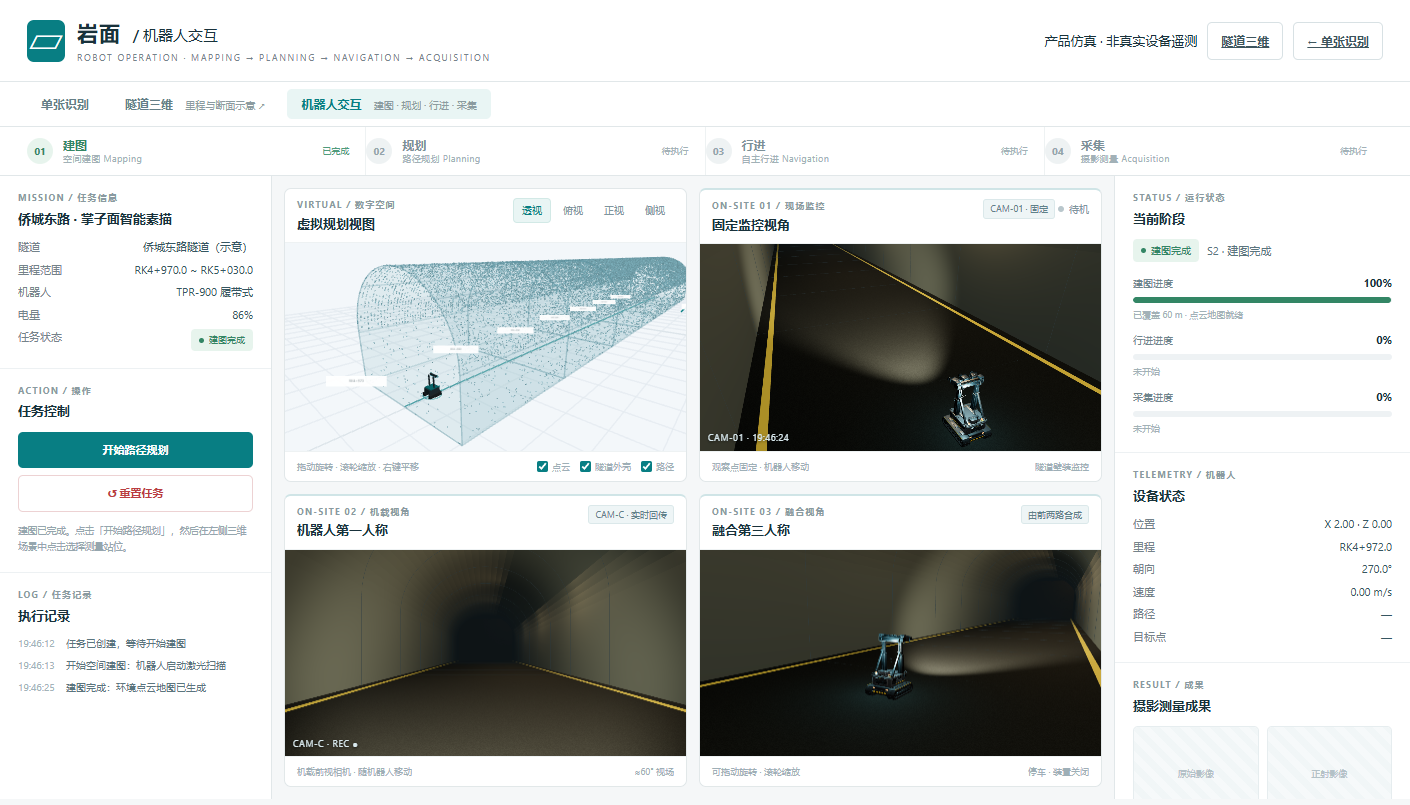
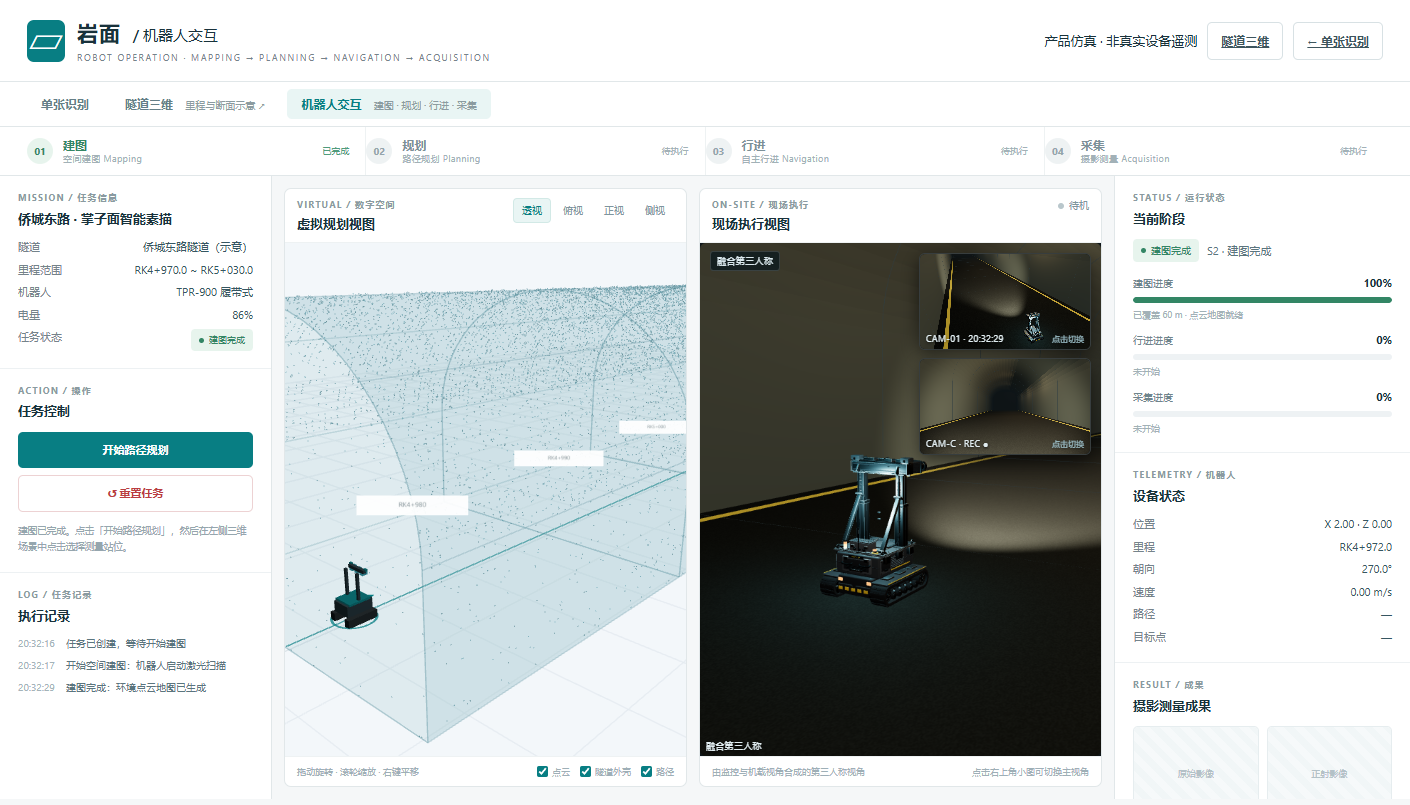
feat: restore two-panel layout with fused main view and click-to-swap picture-in-picture feeds

Changed region(s): [[0.1872, 0.2484, 0.7801, 0.9627], [0.6865, 0.2484, 0.7801, 0.3106], [0.6865, 0.9317, 0.7801, 0.9627]]

diff --git a/frontend/robot.js b/frontend/robot.js
@@ -211,12 +211,6 @@ function renderStatus() {
   else if (mission.paused) { realState.textContent = "已暂停"; live.classList.add("warn"); }
   else if (mission.state === "S11") { realState.textContent = "任务完成"; live.classList.add("on"); }
   else { realState.textContent = "待机"; }
-
-  $("real-foot").textContent = mission.state === "S8"
-    ? "停车 · 三相机采集中"
-    : mission.state === "S6" ? "行进中 · 履带驱动"
-    : mission.state === "S7" || mission.state === "S9" || mission.state === "S10" || mission.state === "S11" ? "停车 · 装置待机"
-    : "停车 · 装置关闭";
 }
 
 function renderLog() {
@@ -497,6 +491,65 @@ function bind() {
   window.addEventListener("resize", () => { virtualView?.resize(); realView?.resize(); });
 }
 
+// ---------------------------------------------------------------- 现场三路视角
+// 主画面默认是融合第三人称；另外两路作为右上角小图，点击即与主画面交换。
+const FEED_META = {
+  fused: { label: "融合第三人称", foot: "由监控与机载视角合成的第三人称视角" },
+  monitor: { label: "固定监控 CAM-01", foot: "观察点固定 · 机器人移动" },
+  fpv: { label: "机器人第一人称 CAM-C", foot: "机载前视相机 · 随机器人移动" },
+};
+const FEED_ORDER = ["fused", "monitor", "fpv"];
+const feedCards = {};
+let activeFeed = "fused";
+
+function makeFeedCard(key, tagText, tagId) {
+  const card = document.createElement("div");
+  card.className = "rb-feed-card";
+  card.dataset.feed = key;
+  card.title = `${FEED_META[key].label} · 点击切换主视角`;
+  const tag = document.createElement("span");
+  tag.className = "rb-feed-tag";
+  if (tagId) tag.id = tagId;
+  tag.textContent = tagText;
+  const hint = document.createElement("span");
+  hint.className = "rb-feed-hint";
+  card.append(tag, hint);
+  card.addEventListener("click", () => setActiveFeed(key));
+  return card;
+}
+
+function setActiveFeed(key) {
+  if (!key || key === activeFeed || !feedCards[key]) return;
+  activeFeed = key;
+  layoutFeeds();
+  toast(`主画面已切换到${FEED_META[key].label}`);
+}
+
+function layoutFeeds() {
+  const main = $("site-main");
+  const pip = $("site-pip");
+  if (!main || !pip) return;
+  for (const key of FEED_ORDER) {
+    const card = feedCards[key];
+    if (!card) continue;
+    const isMain = key === activeFeed;
+    card.classList.toggle("is-main", isMain);
+    card.classList.toggle("is-pip", !isMain);
+    const hint = card.querySelector(".rb-feed-hint");
+    if (hint) hint.textContent = isMain ? "" : "点击切换";
+    (isMain ? main : pip).append(card);
+  }
+  const label = $("site-label");
+  if (label) label.textContent = FEED_META[activeFeed].label;
+  const foot = $("real-foot");
+  if (foot) foot.textContent = FEED_META[activeFeed].foot;
+  if (realView) {
+    realView.activeKey = activeFeed;
+    realView.controls.enabled = activeFeed === "fused";
+    requestAnimationFrame(() => realView.resize());
+  }
+}
+
 // ---------------------------------------------------------------- 初始化
 async function boot() {
   mission.subscribe((type, payload) => {
@@ -566,11 +619,11 @@ async function boot() {
   }
 
   try {
-    realView = new RealView({
-      monitor: $("view-monitor"),
-      fpv: $("view-fpv"),
-      fused: $("view-fused"),
-    });
+    feedCards.fused = makeFeedCard("fused", "融合第三人称");
+    feedCards.monitor = makeFeedCard("monitor", "CAM-01 · --:--:--", "osd-monitor");
+    feedCards.fpv = makeFeedCard("fpv", "CAM-C · REC ●");
+    realView = new RealView(feedCards);
+    layoutFeeds();
     await realView.loadRobot();
     realView.setStatus("idle");
   } catch (error) {

diff --git a/frontend/robot.html b/frontend/robot.html
@@ -108,51 +108,24 @@
           </footer>
         </article>
 
-        <article class="rb-view rb-view-site" id="view-card-monitor">
+        <article class="rb-view" id="view-card-site">
           <header class="rb-view-head">
             <div>
-              <div class="panel-eyebrow">ON-SITE 01 / 现场监控</div>
-              <h2>固定监控视角</h2>
+              <div class="panel-eyebrow">ON-SITE / 现场执行</div>
+              <h2>现场执行视图</h2>
             </div>
             <div class="rb-view-tools">
-              <span class="rb-badge">CAM-01 · 固定</span>
               <span class="rb-live"><i></i><span id="real-state">待机</span></span>
             </div>
           </header>
-          <div class="rb-canvas rb-canvas-real" id="view-monitor" data-testid="monitor-viewport"><span class="rb-osd" id="osd-monitor">CAM-01 · --:--:--</span></div>
+          <div class="rb-canvas rb-canvas-real rb-site" id="site" data-testid="site-viewport">
+            <div class="rb-site-main" id="site-main"></div>
+            <div class="rb-site-pip" id="site-pip" aria-label="其他视角"></div>
+            <span class="rb-site-label" id="site-label">融合第三人称</span>
+          </div>
           <footer class="rb-view-foot">
-            <span>观察点固定 · 机器人移动</span>
-            <span>隧道壁装监控</span>
-          </footer>
-        </article>
-
-        <article class="rb-view rb-view-site" id="view-card-fpv">
-          <header class="rb-view-head">
-            <div>
-              <div class="panel-eyebrow">ON-SITE 02 / 机载视角</div>
-              <h2>机器人第一人称</h2>
-            </div>
-            <div class="rb-view-tools"><span class="rb-badge">CAM-C · 实时回传</span></div>
-          </header>
-          <div class="rb-canvas rb-canvas-real" id="view-fpv" data-testid="fpv-viewport"><span class="rb-osd" id="osd-fpv">CAM-C · REC ●</span></div>
-          <footer class="rb-view-foot">
-            <span>机载前视相机 · 随机器人移动</span>
-            <span>≈60° 视场</span>
-          </footer>
-        </article>
-
-        <article class="rb-view rb-view-site" id="view-card-fused">
-          <header class="rb-view-head">
-            <div>
-              <div class="panel-eyebrow">ON-SITE 03 / 融合视角</div>
-              <h2>融合第三人称</h2>
-            </div>
-            <div class="rb-view-tools"><span class="rb-badge">由前两路合成</span></div>
-          </header>
-          <div class="rb-canvas rb-canvas-real" id="view-fused" data-testid="fused-viewport"></div>
-          <footer class="rb-view-foot">
-            <span>可拖动旋转 · 滚轮缩放</span>
-            <span id="real-foot">停车 · 装置关闭</span>
+            <span id="real-foot">由监控与机载视角合成的第三人称视角</span>
+            <span>点击右上角小图可切换主视角</span>
           </footer>
         </article>
       </div>

diff --git a/frontend/robot.css b/frontend/robot.css
@@ -70,7 +70,7 @@
 
 /* ---------- 中央双场景 ---------- */
 .rb-center { padding: 12px; display: flex; flex-direction: column; gap: 10px; min-width: 0; min-height: 0; overflow: hidden; }
-.rb-views { display: grid; grid-template-columns: minmax(0, 1fr) minmax(0, 1fr); grid-template-rows: minmax(0, 1fr) minmax(0, 1fr); gap: 12px; flex: 1; min-height: 0; }
+.rb-views { display: grid; grid-template-columns: minmax(0, 1fr) minmax(0, 1fr); grid-template-rows: minmax(0, 1fr); gap: 12px; flex: 1; min-height: 0; }
 .rb-view {
   display: flex; flex-direction: column; min-width: 0; min-height: 0;
   border: 1px solid var(--line); border-radius: 7px; background: var(--paper); overflow: hidden;
@@ -91,11 +91,36 @@
 .rb-canvas-real { background: #10171a; }
 .rb-canvas canvas { display: block; }
 .rb-feed { display: block; width: 100%; height: 100%; touch-action: none; }
-.rb-view-site { border-top: 2px solid #cfe4e6; }
-.rb-osd {
-  position: absolute; left: 8px; bottom: 6px; z-index: 2;
-  font-size: 9px; letter-spacing: .5px; color: #d9e9ee;
-  text-shadow: 0 1px 3px #000a; font-variant-numeric: tabular-nums; pointer-events: none;
+
+/* ---------- 现场执行：主画面 + 右上角画中画 ---------- */
+.rb-site { position: relative; }
+.rb-site-main { position: absolute; inset: 0; }
+.rb-site-pip {
+  position: absolute; top: 10px; right: 10px; z-index: 3;
+  display: flex; flex-direction: column; gap: 8px;
+}
+.rb-feed-card { position: relative; overflow: hidden; border-radius: 6px; background: #0b1214; }
+.rb-feed-card.is-main { width: 100%; height: 100%; }
+.rb-feed-card.is-pip {
+  width: 172px; height: 97px; border: 1px solid #ffffff2e; cursor: pointer;
+  box-shadow: 0 6px 18px #00000099; transition: border-color .12s, transform .12s;
+}
+.rb-feed-card.is-pip:hover { border-color: #8fd3dd; transform: translateY(-1px); }
+.rb-feed-card canvas { display: block; width: 100%; height: 100%; }
+.rb-feed-tag {
+  position: absolute; left: 6px; bottom: 4px; z-index: 2;
+  font-size: 9px; letter-spacing: .3px; color: #e2eef2;
+  text-shadow: 0 1px 3px #000c; font-variant-numeric: tabular-nums; pointer-events: none;
+}
+.rb-feed-hint {
+  position: absolute; right: 6px; bottom: 4px; z-index: 2;
+  font-size: 8px; color: #9fc3cc; text-shadow: 0 1px 3px #000c; pointer-events: none;
+}
+.rb-site-label {
+  position: absolute; left: 10px; top: 8px; z-index: 3;
+  font-size: 9px; letter-spacing: .4px; color: #dbe9ee;
+  background: #0d1a1ecc; border: 1px solid #ffffff26; border-radius: 3px; padding: 2px 6px;
+  pointer-events: none;
 }
 .rb-badge {
   font-size: 9px; color: #5f818a; background: #eef5f6; border: 1px solid #dbe8ea;

diff --git a/frontend/robot_scene.js b/frontend/robot_scene.js
@@ -806,23 +806,49 @@ export class RealView {
     this.drawFeed("fused", this.camera);
   }
 
-  /** 渲染一次到离屏画布，再按 cover 规则拷贝到目标 2D 画布。 */
+  /** 渲染一次并拷贝到目标 2D 画布。
+   *  主画面与画中画比例不同：在共享缓冲里按目标比例取子视口，避免拉伸或裁掉视野。 */
   drawFeed(key, camera) {
     const target = this.targets[key];
     if (!target || !camera) return;
     const { canvas, context } = target;
-    const width = canvas.width, height = canvas.height;
-    if (!width || !height) return;
-    this.renderer.render(this.scene, camera);
+    const cw = canvas.width, ch = canvas.height;
+    if (!cw || !ch) return;
+
     const source = this.renderer.domElement;
-    const sw = source.width, sh = source.height;
-    const scale = Math.max(width / sw, height / sh);
-    const cw = width / scale, ch = height / scale;
-    context.drawImage(source, (sw - cw) / 2, (sh - ch) / 2, cw, ch, 0, 0, width, height);
+    const bw = source.width, bh = source.height;
+    const targetAspect = cw / ch;
+    const bufferAspect = bw / bh;
+
+    let vw = bw, vh = bh;
+    if (Math.abs(targetAspect - bufferAspect) > 0.02) {
+      if (targetAspect < bufferAspect) { vw = Math.round(bh * targetAspect); vh = bh; }
+      else { vw = bw; vh = Math.round(bw / targetAspect); }
+      vw = Math.min(vw, bw);
+      vh = Math.min(vh, bh);
+    }
+
+    camera.aspect = targetAspect;
+    camera.updateProjectionMatrix();
+
+    const scissored = vw !== bw || vh !== bh;
+    this.renderer.setViewport(0, 0, vw, vh);
+    this.renderer.setScissorTest(scissored);
+    this.renderer.setScissor(0, 0, vw, vh);
+    this.renderer.render(this.scene, camera);
+    // WebGL 视口原点在左下，drawImage 原点在左上。
+    context.drawImage(source, 0, bh - vh, vw, vh, 0, 0, cw, ch);
   }
 
   resize() {
     const dpr = Math.min(window.devicePixelRatio || 1, 1.5);
+    const mainKey = this.activeKey || "fused";
+    const mainElement = this.targets[mainKey]?.element;
+    const mw = Math.max(1, mainElement?.clientWidth || 800);
+    const mh = Math.max(1, mainElement?.clientHeight || 450);
+    const bw = Math.min(1600, Math.max(480, Math.round(mw * dpr)));
+    const bh = Math.min(1200, Math.max(270, Math.round(mh * dpr)));
+    this.renderer.setSize(bw, bh, false);
     for (const target of Object.values(this.targets)) {
       const width = Math.max(1, target.element.clientWidth);
       const height = Math.max(1, target.element.clientHeight);

diff --git a/ROBOT_WORKBENCH_V0.1.md b/ROBOT_WORKBENCH_V0.1.md
@@ -54,7 +54,7 @@
 | `MissionTaskPanel` | 左栏「任务信息 / 操作 / 执行记录」三张卡片 |
 | `WorkflowStepper` | `renderStepper()`，01 建图 / 02 规划 / 03 行进 / 04 采集 |
 | `VirtualPlanningView` | `VirtualView extends TunnelRenderer`（`robot_scene.js`） |
-| `RealExecutionView` | `RealView`（`robot_scene.js`，一套场景 + 三路相机：固定监控 / 机载第一人称 / 融合第三人称） |
+| `RealExecutionView` | `RealView`（`robot_scene.js`，一套场景 + 三路相机；主画面 + 右上角画中画，点击可交换） |
 | `RobotStatusPanel` | 右栏「当前阶段 / 三组进度条 / 设备状态」 |
 | `MappingPanel` `PlanningPanel` `NavigationPanel` `AcquisitionPanel` | `renderActions()` 按状态分支渲染的上下文按钮 + `renderStatus()` 的进度 |
 | `ResultPanel` | 右栏成果缩略图 + 成果抽屉（`#drawer`，5 个页签） |
@@ -148,19 +148,25 @@ Mission（唯一数据源）
 
 **坐标约定**（与隧道三维一致）：+X 里程增大、+Y 向上、+Z 右侧；机器人局部 −Z 为前进方向，放置时 `rotation.y = atan2(−fx, −fz)`。
 
-### 6.1 现场执行的三路视角
+### 6.1 现场执行的三路视角（主画面 + 画中画）
+
+现场执行视图采用「1 大 + 2 小」布局：默认主画面是**融合第三人称**，另外两路以画中画形式固定在右上角，**点击任一小图即与主画面交换**。
 
 | 视角 | 相机 | 行为 | 实现要点 |
 |---|---|---|---|
-| 01 固定监控 | `monitorCamera` | 机位固定（隧道壁 4.55 m 高，朝洞口方向），**观察点不动、机器人动** | 独立透视相机，不参与交互；画面带 `CAM-01 + 时间码` OSD |
-| 02 机载第一人称 | `fpvCamera` | 挂在 GLB 的 `Camera_Center` 节点上，随车体与云台实时运动 | 子节点相机，局部 z = −0.62 m（越过遮光罩，不拍到自己镜筒）；≈60° 视场 |
-| 03 融合第三人称 | `camera` | 第三人称，可拖动旋转/缩放；行进与到达时自动追尾跟随 | `OrbitControls` + 逐帧 `lerp` 跟随；采集阶段切到侧后方机位 |
+| 融合第三人称（默认主画面） | `camera` | 第三人称，可拖动旋转/缩放；行进与到达时自动追尾跟随 | `OrbitControls` + 逐帧 `lerp`；采集阶段切侧后方机位 |
+| 固定监控 CAM-01 | `monitorCamera` | 机位固定在隧道壁（4.55 m 高、朝洞口），**观察点不动、机器人动** | 独立透视相机；画面左下角带 `CAM-01 + 时间码` |
+| 机载第一人称 CAM-C | `fpvCamera` | 挂在 GLB 的 `Camera_Center` 节点上，随车体与云台实时运动 | 子节点相机，局部 z = −0.62 m（越过遮光罩）；≈60° 视场 |
 
-**性能做法**：三路共用同一个场景与同一个 WebGL 上下文——每帧渲染三次到离屏缓冲，再按 cover 规则拷贝到三块 2D 画布（`drawFeed()`）。这样只上传一份 44 万面几何体，也避免三个 GL 上下文。实测 1440×900 下稳定 **60 fps**。
+**交换逻辑**：三路画面各自是独立的 `.rb-feed-card`（含 canvas 与角标）。点击画中画时，把该卡片移入主容器、把原主画面移入右上角槽位，同时更新左上角标签、页脚说明与相机控制开关（只有融合视角作为主画面时才启用拖动）。
 
-**图层隔离**：相机视锥体放在 layer 1，监控与融合相机可见，机载相机不可见（否则第一人称里会看到"自己的视场框"）。
+**比例处理**：三路共用一个 WebGL 上下文与一块离屏缓冲。主画面比例（约 0.78，竖向）与画中画比例（约 1.79，横向）不同，因此在缓冲内按目标比例取**子视口**（`setViewport` + `setScissor`）分别渲染，再拷贝到各自 2D 画布——既不拉伸，也不裁掉视野。
 
-> 说明：第三路"融合"目前是**同一场景中的第三人称机位**，用于表达"由前两路合成的第三人称画面"这一产品概念；真正的多视角重建（NeRF / 稠密重建）不在本阶段范围内。
+**性能**：只上传一份 44 万面几何体，不额外创建 GL 上下文；实测 1440×900 下稳定 **60 fps**。
+
+**图层隔离**：相机视锥体放在 layer 1，监控与融合视角可见，机载相机不可见（否则第一人称里会看到"自己的视场框"）。
+
+> 说明：融合视角目前是**同一场景中的第三人称机位**，用于表达"由前两路合成的第三人称画面"这一产品概念；真正的多视角重建（NeRF / 稠密重建）不在本阶段范围内。
 
 ---
 
@@ -198,7 +204,7 @@ Mission（唯一数据源）
 | 生成素描成果 | 通过，S9→S10→S11，真实任务 `bd7b94a0e5c1` |
 | 成果抽屉 | 通过，素描图与 28 字段表（29 行含表头，6 项自动填充） |
 | 重置 | 通过，S0，目标/路径/进度清空，两视图复位 |
-| 三路现场视角 | 通过：监控机位固定、FPV 随车体移动、融合视角可拖动，1440×900 下 60 fps |
+| 三路现场视角 | 通过：默认融合为主画面，监控/FPV 为右上角画中画；点击交换生效；监控机位固定、FPV 随车体移动；60 fps |
 | 控制台错误 | **0** |
 
 ### 8.2 状态机断言（浏览器内执行）
